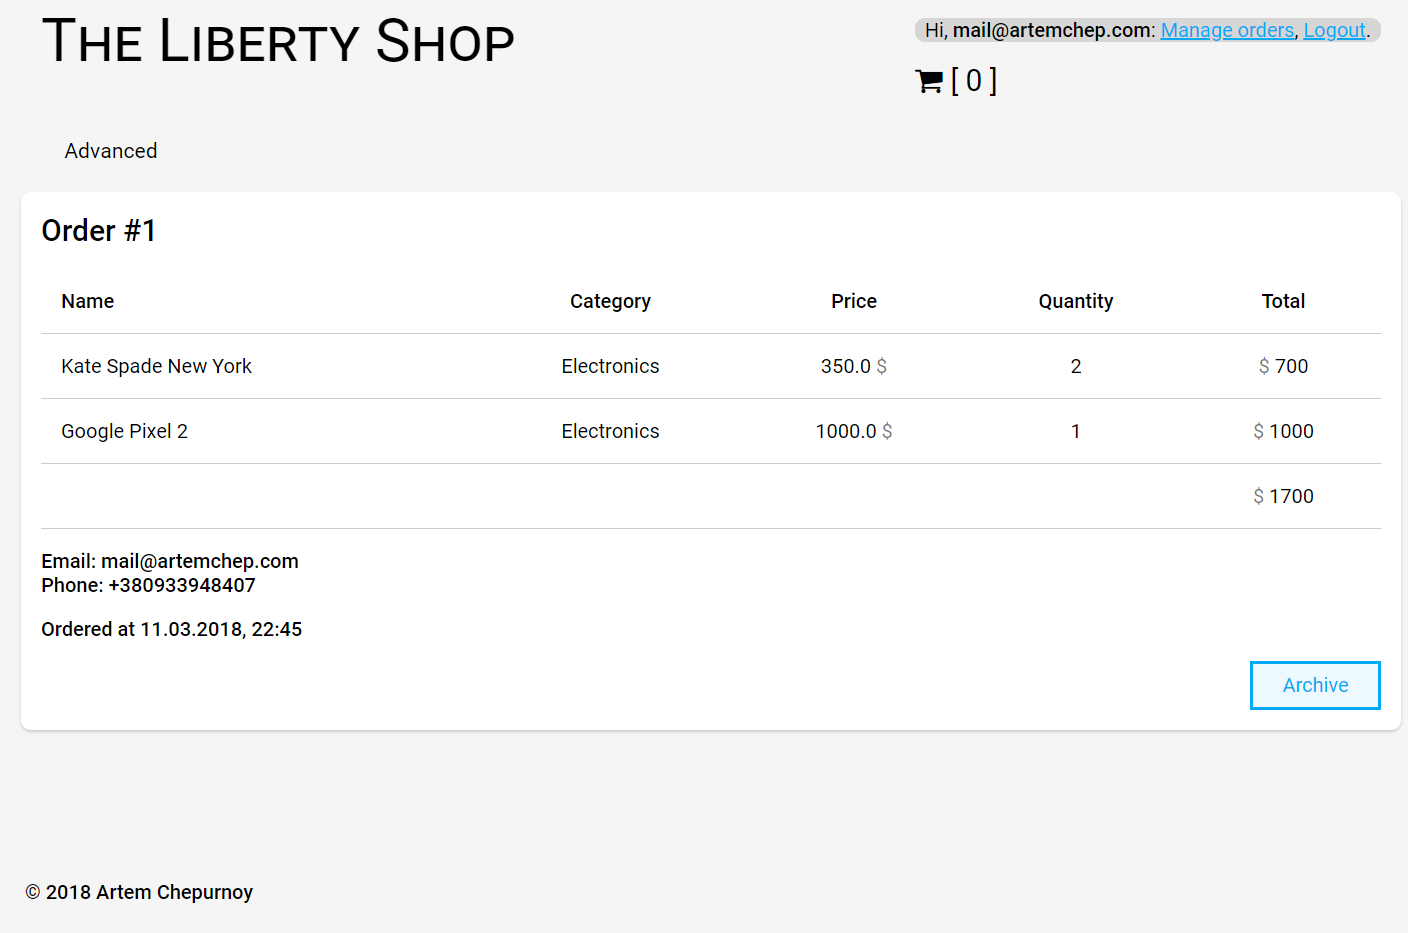
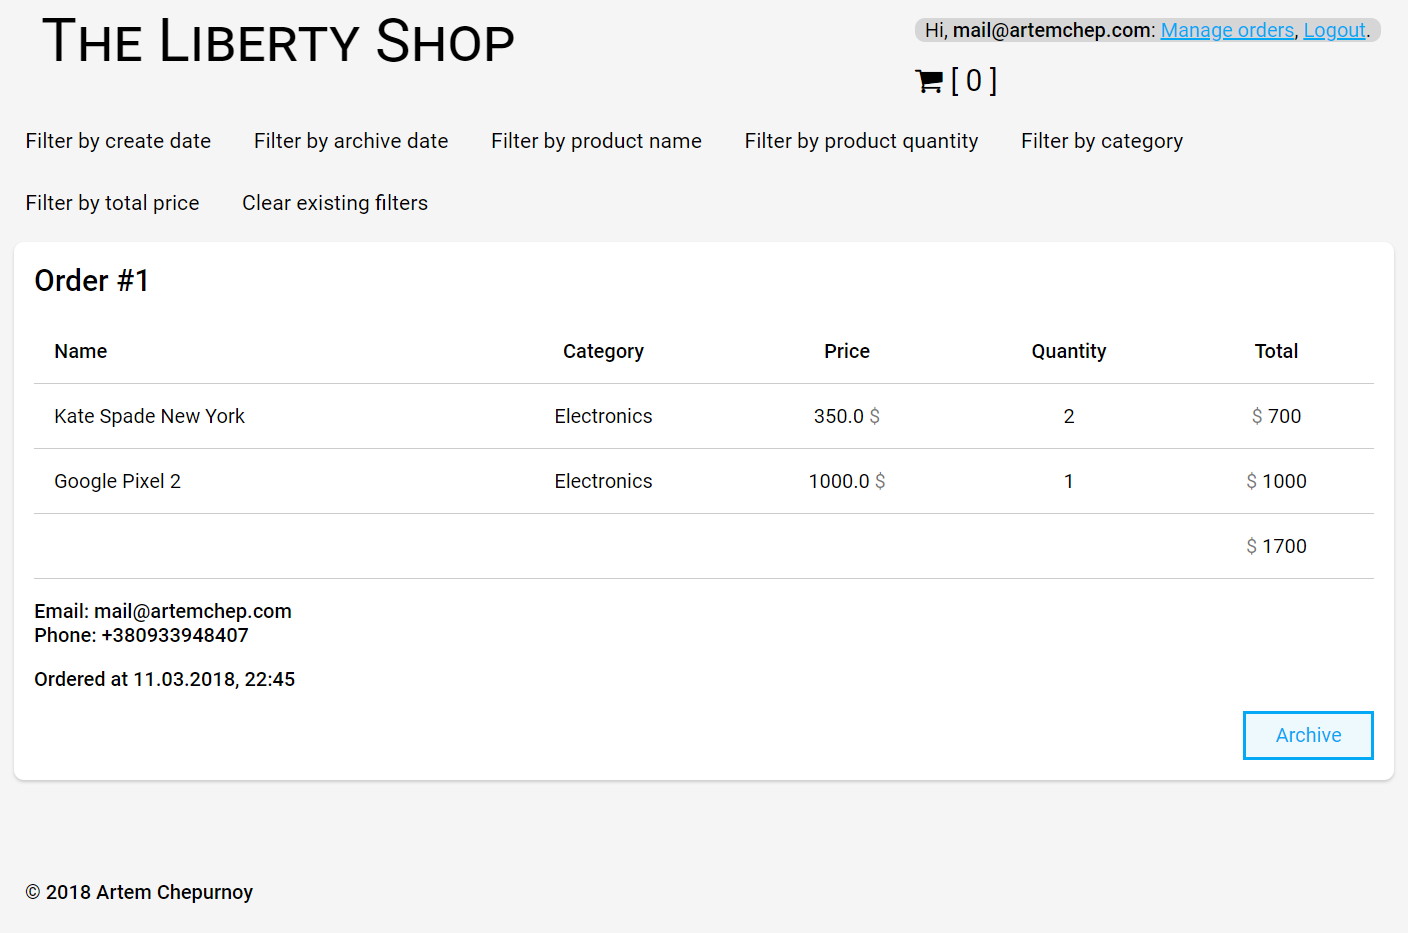
php: Complete lab

diff --git a/public/php/sec_2.tex b/public/php/sec_2.tex
@@ -45,9 +45,9 @@
 \begin{description}
     \item[де] \texttt{category} --- категорія продуктів;
     \item \texttt{product} --- продукт;
-    \item \texttt{user} --- користувач/адміністратор сайту.
+    \item \texttt{user} --- користувач/адміністратор сайту: \texttt{\small secret} --- хеш-код паролю користувача, \texttt{\small group} --- числове значення групи користувача (\texttt{0} --- користувач, \texttt{10} --- адміністратор).
     \item \texttt{order} --- замовлення продуктів.
-    \item \texttt{product\_order} --- асоціативна сутність.
+    \item \texttt{product\_order} --- асоціативна сутність: \texttt{\small price} --- ціна товару на момент створення замовлення.
 \end{description}
 
 \subsection{Функціональна модель сайту}

diff --git a/public/php/sec_3.tex b/public/php/sec_3.tex
@@ -75,7 +75,8 @@
     \label{fig:site_product_add}
 \end{figure}
 
-Адміністратор та менеджер ресурсу мають можливість переглянути список поточних або минулих замовлень~(рисунок~\ref{fig:site_order_list}), перемістити замовлення до архіву.  
+Адміністратор та менеджер ресурсу мають можливість переглянути список поточних або минулих замовлень~(рисунок~\ref{fig:site_order_list}), перемістити замовлення до архіву.
+Є можливість фільтрування замовлень по даті створення, даті архівування, назві, категорії, кількості продуктів та ціні.   
 \begin{figure}[H]
     \centering
     \includegraphics[width=0.8\textwidth]{screen_order__list}
